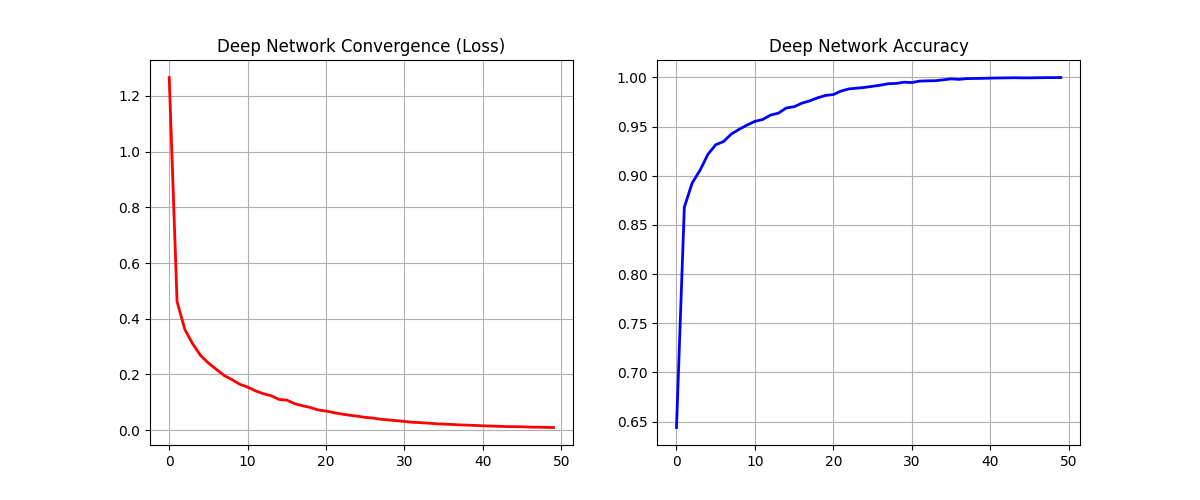
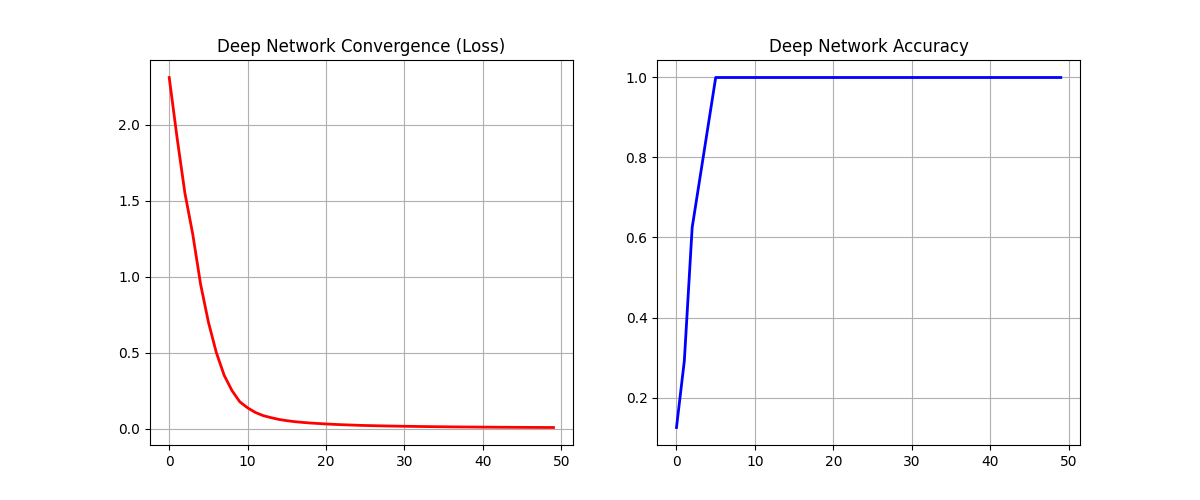
Second commit: GlassBox Vision framework-free engine

diff --git a/main.py b/main.py
@@ -12,19 +12,23 @@ import csv
 
 print("Initializing Deep Neural Network Engine...\n")
 
-# --- 1. LOAD MNIST DATA ---
-print("Loading MNIST Dataset (This may take a few seconds)...")
-# Using pure NumPy to load the CSV. 
-data = np.loadtxt('data/mnist.csv', delimiter=',', skiprows=1)
-# Check if your custom dataset exists, and if so, load it!
-if os.path.exists('data/my_handwriting.csv'):
-    print("Loading Custom Handwriting Data...")
-    custom_data = np.loadtxt('data/my_handwriting.csv', delimiter=',', skiprows=1)
+# # --- 1. LOAD MNIST DATA ---
+# print("Loading MNIST Dataset (This may take a few seconds)...")
+# # Using pure NumPy to load the CSV. 
+# data = np.loadtxt('data/mnist.csv', delimiter=',', skiprows=1)
+# # Check if your custom dataset exists, and if so, load it!
+# if os.path.exists('data/my_handwriting.csv'):
+#     print("Loading Custom Handwriting Data...")
+#     custom_data = np.loadtxt('data/my_handwriting.csv', delimiter=',', skiprows=1)
     
-    # Glue your custom drawings to the bottom of the MNIST dataset
-    data = np.vstack((data, custom_data))
-    print(f"Added custom images to the training pool!")
-# The first column is the label (0-9), the rest are the 784 pixels
+#     # Glue your custom drawings to the bottom of the MNIST dataset
+#     data = np.vstack((data, custom_data))
+#     print(f"Added custom images to the training pool!")
+# # The first column is the label (0-9), the rest are the 784 pixels
+
+print("Loading ONLY Custom Handwriting Data...")
+data = np.loadtxt('data/my_handwriting.csv', delimiter=',', skiprows=1)
+
 X = data[:, 1:]
 y_raw = data[:, 0].astype(int)
 
@@ -59,7 +63,7 @@ optimizer = SGD(learning_rate=0.1)
 
 # --- 3. TRAINING LOOP WITH MINI-BATCHES ---
 epochs = 50
-batch_size = 128 # Process 128 images at a time
+batch_size = 16 # Process 128 images at a time
 epoch_history, loss_history, accuracy_history = [], [], []
 
 print("Starting Deep Learning Training...\n")
